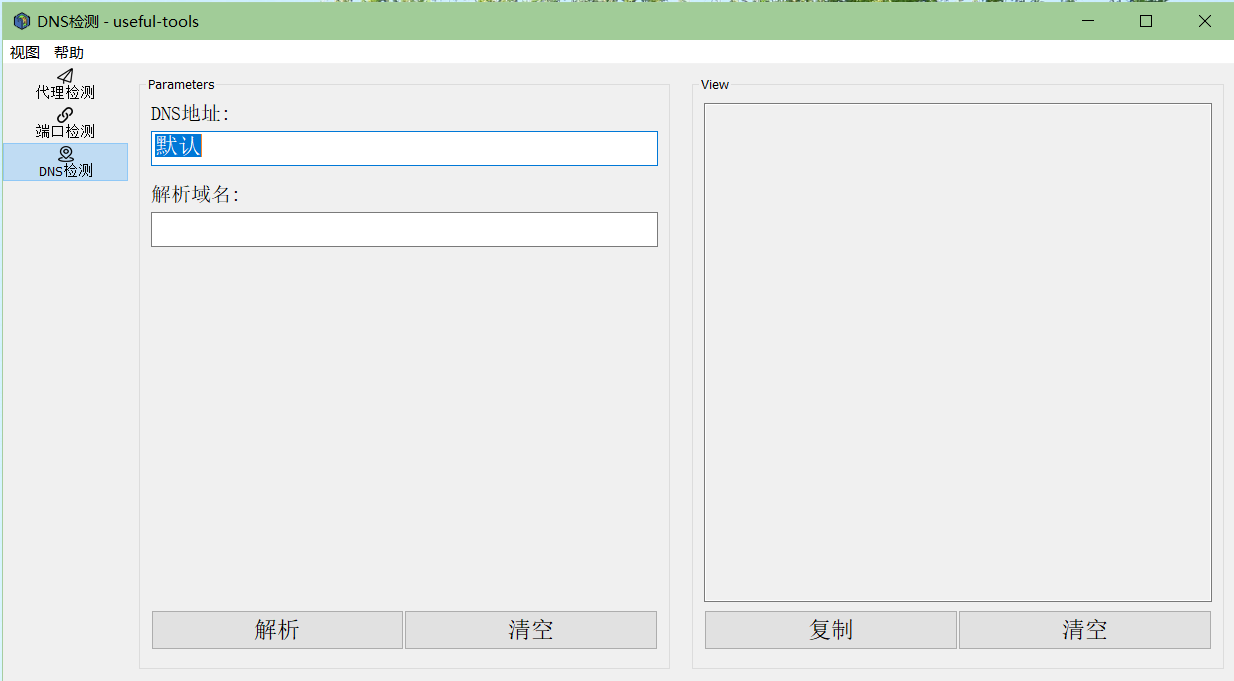
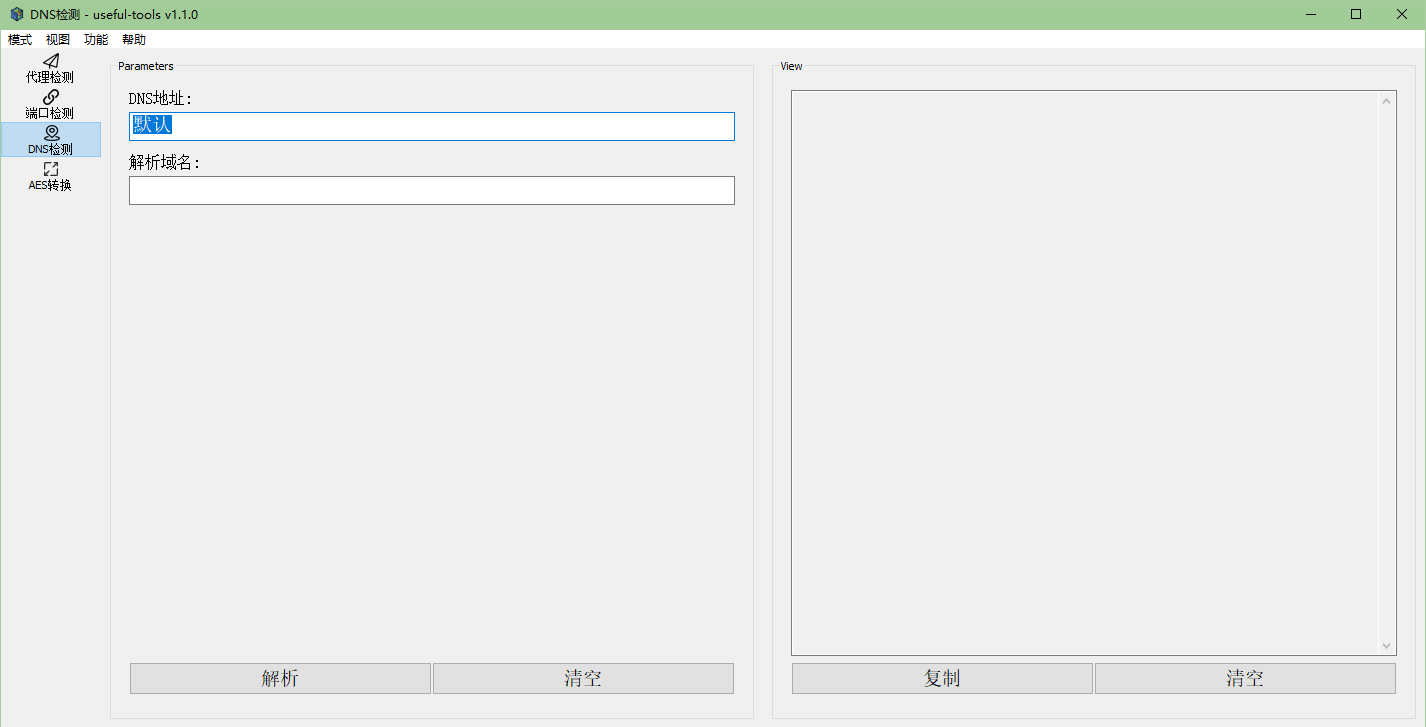
chore: update README.md

diff --git a/README.md b/README.md
@@ -1,63 +1,31 @@
-# Useful-tools v1.0.0
+# Useful-tools
 **useful-tools** 是方便平常开发，测试和运维的小工具集合。
 
 ## 下载
-[Useful-tools v1.0.0](https://github.com/fanyiguang/useful-tools/releases/download/v1.0.0/useful-tools.zip)
+[Useful-tools v1.1.0](https://github.com/fanyiguang/useful-tools/releases/download/v1.1.0/useful-tools.zip)
 
 ## 功能介绍
 
-### 代理检测
+### 菜单栏功能
+1. **模式 > 专业模式：** 可以切换至专业模式
+2. **试图 > 显示密码：** 可以设置代理密码的隐藏和显示
+3. **视图 > 隐藏消息体：** 可以隐藏请求响应的body只显示header
+4. **功能 > 隐藏AES密钥：** 会保存上一次AES加解密的密钥
 
+### 代理检测
 #### 普通模式
 ![image](https://github.com/fanyiguang/useful-tools/blob/master/resource/proxy-normal.png)  
 支持SOCKS5，SSL，SSH，HTTP，HTTPS五种代理的检测，输入对应的参数点击检测结果就会输出到右侧的文本框中。
 
-#### 解析模式
-![image](https://github.com/fanyiguang/useful-tools/blob/master/resource/dns-parser.png)  
-设置视图 > 解析模式 可以设置输入参数为解析的模式。在解析模式下输入参数支持多种格式：
-1. {"[.\*]type[.\*]": "socks5", "[.\*]ip[.\*]": "127.0.0.1", "[.\*]port[.\*]": "8888", "[.\*]name[.\*]": "admin", "[.\*]pass[.\*]": "use-ful-tools"}
-2. {"[.\*]type[.\*]": "socks5", "[.\*]addr[.\*]": "127.0.0.1", "[.\*]port[.\*]": "8888", "[.\*]name[.\*]": "admin", "[.\*]pass[.\*]": "use-ful-tools"}
-2. type name pass ip port
-3. type:name:pass:ip:port
-4. type:::ip:port
-
-如果没有账号和密码的话留空即可，[.\*]代表任意字符。
-
 ### 端口检测
-
 #### 普通模式
 ![image](https://github.com/fanyiguang/useful-tools/blob/master/resource/tcp-udp-normal.png)  
 支持使用自选或随机本地网卡发送TCP/UDP请求到对应的IP端口，结果会输出到右侧的文本框中。
 
-#### 解析模式
-![image](https://github.com/fanyiguang/useful-tools/blob/master/resource/tcp-udp-parser.png)  
-支持解析的格式：
-1. {"[.\*]network[.\*]": "tcp", "[.\*]iFace[.\*]": "127.0.0.1", "[.\*]ip[.\*]": "127.0.0.1", "[.\*]port[.\*]": "8888"}
-2. {"[.\*]network[.\*]": "tcp", "[.\*]interface[.\*]": "127.0.0.1", "[.\*]ip[.\*]": "127.0.0.1", "[.\*]port[.\*]": "8888"}
-3. {"[.\*]network[.\*]": "tcp", "[.\*]iFace[.\*]": "127.0.0.1", "[.\*]addr[.\*]": "127.0.0.1", "[.\*]port[.\*]": "8888"}
-4. {"[.\*]network[.\*]": "tcp", "[.\*]interface[.\*]": "127.0.0.1", "[.\*]addr[.\*]": "127.0.0.1", "[.\*]port[.\*]": "8888"}
-5. network interface ip port
-6. network:interface:ip:port
-7. network:ip:port
-8. network:interface
-
-network和interface可以忽略不写默认为TCP请求网卡随机，也可以单独忽略interface，[.\*]代表任意字符。
-
 ### DNS检测
-
 #### 普通模式
 ![image](https://github.com/fanyiguang/useful-tools/blob/master/resource/dns-normal.png)  
-默认使用本地配置的dns Server，也可以输入自定义的dns Server。
+默认使用本地配置的dns Server。
 
-#### 解析模式
-![image](https://github.com/fanyiguang/useful-tools/blob/master/resource/dns-parser.png)  
-支持的格式：
-1. {"[.\*]domain[.\*]": "www.github.com", "[.\*]dns[.\*]": "8.8.8.8"}
-2. {"[.\*]domain[.\*]": "www.github.com", "[.\*]server[.\*]": "8.8.8.8"}
-3. {"[.\*]url[.\*]": "www.github.com", "[.\*]server[.\*]": "8.8.8.8"}
-4. {"[.\*]url[.\*]": "www.github.com", "[.\*]dns[.\*]": "8.8.8.8"}
-5. url dns
-6. url:dns
-7. url
-
-dns客户忽略不写默认使用本机配置的dns Server，[.\*]代表任意字符。
+### AES转换
+![image](https://github.com/fanyiguang/useful-tools/blob/master/resource/aes-normal.png)
